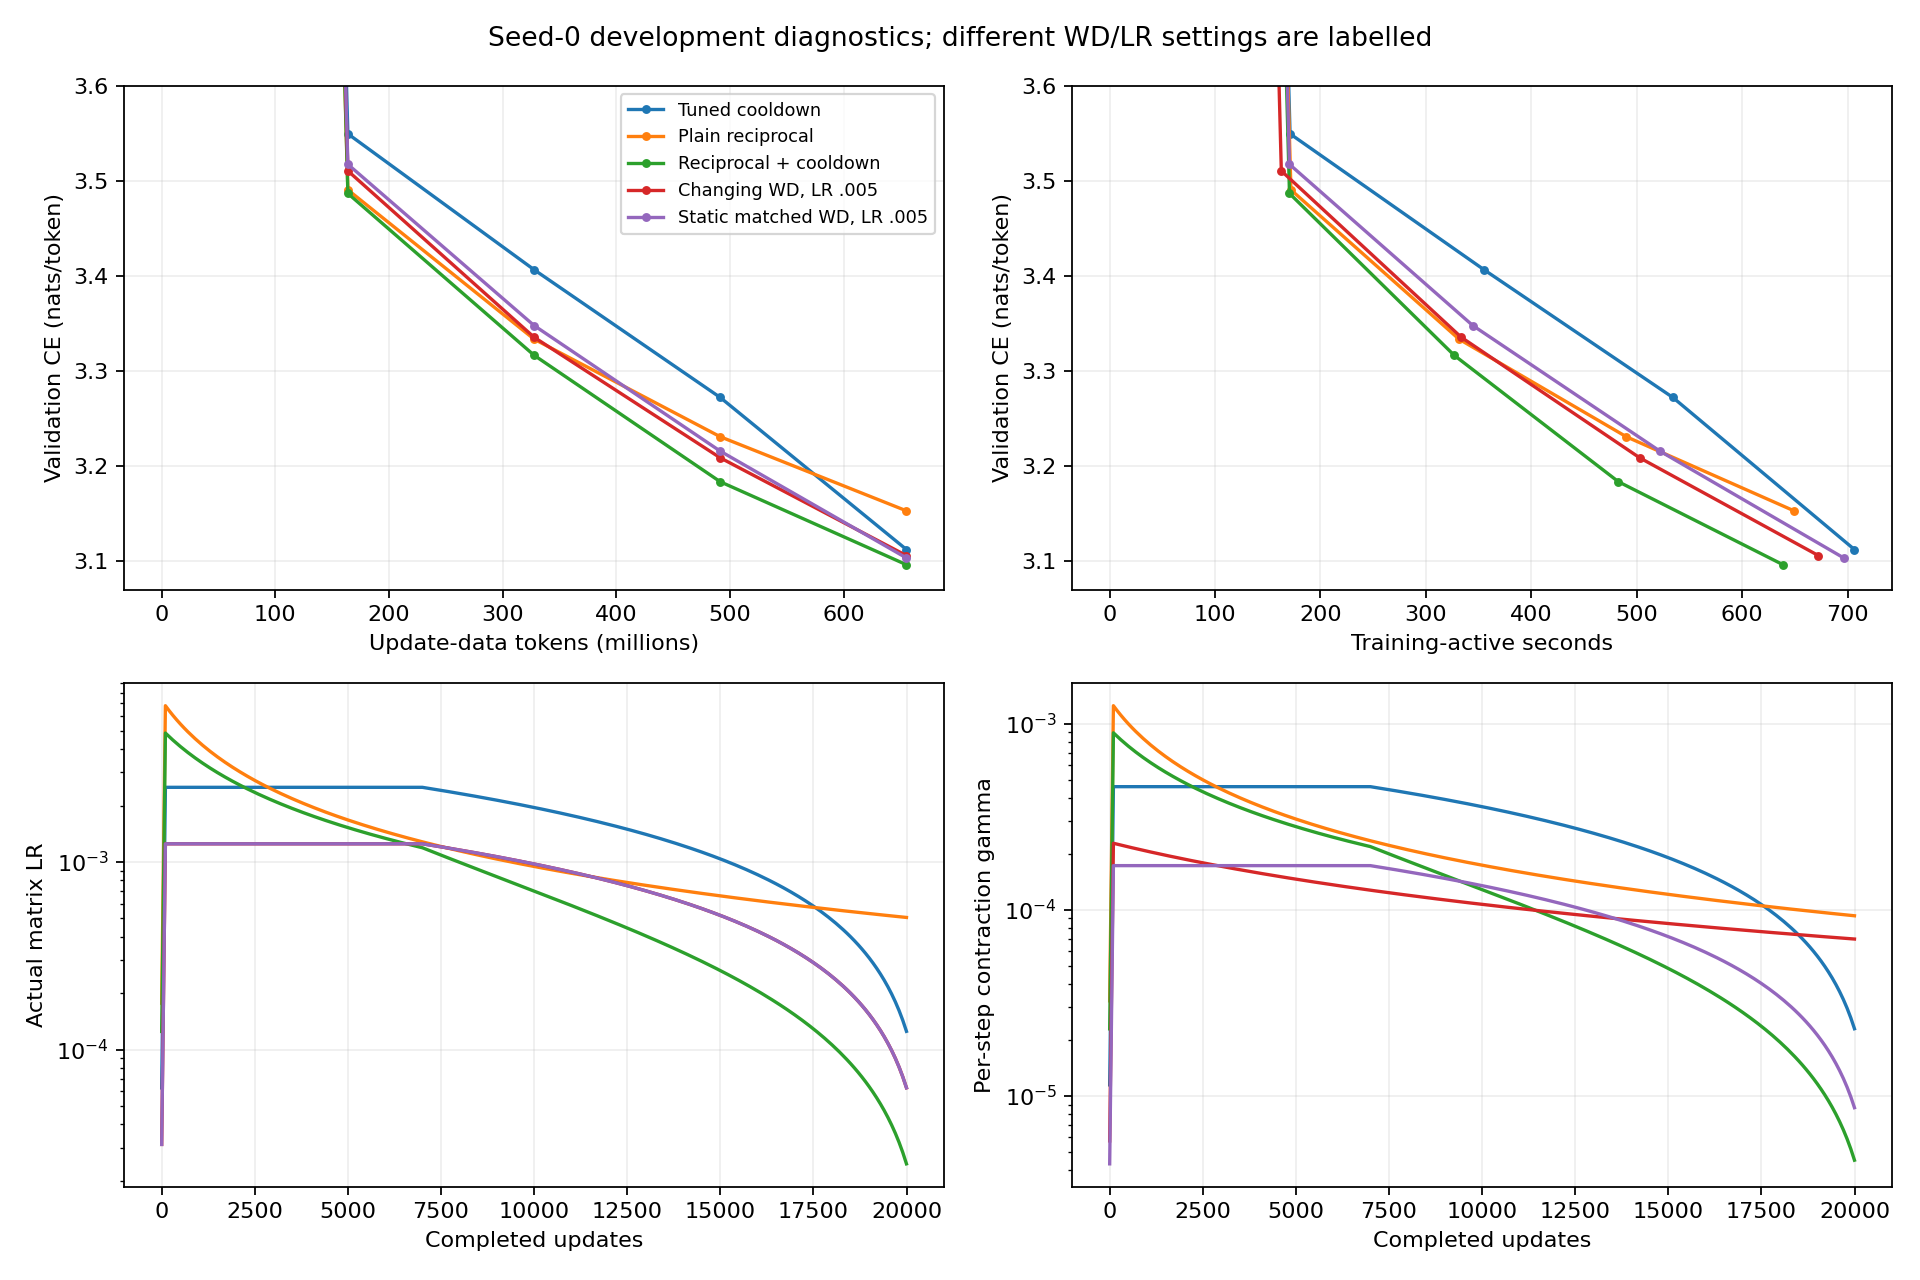
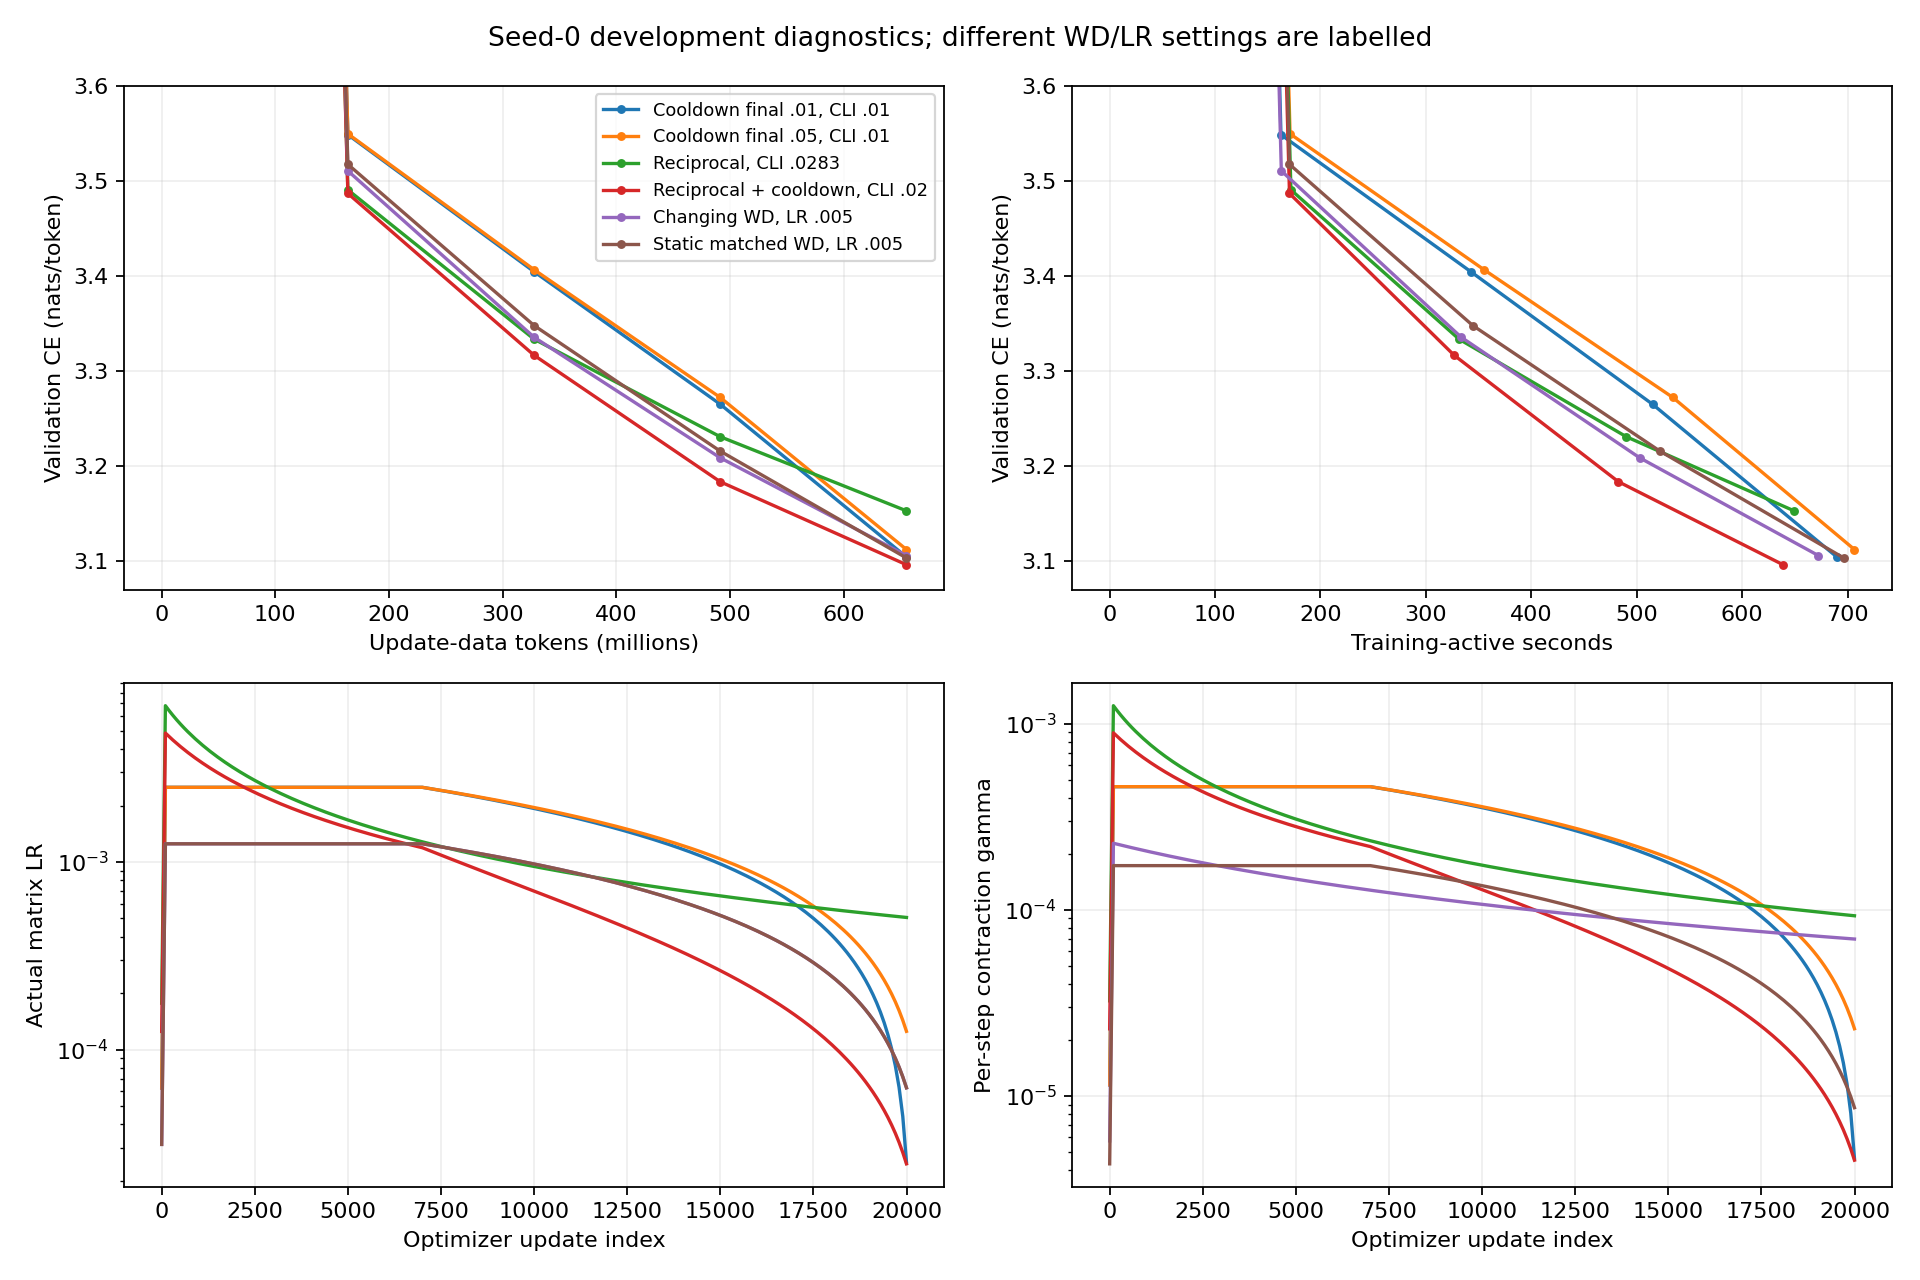
Report negative cap-sign screen and stronger terminal-matched controls

diff --git a/research/unnormalized_muon/cap_sign_report.py b/research/unnormalized_muon/cap_sign_report.py
@@ -1,0 +1,29 @@
+"""Reproduce long cap/sign loss and parameter-weighted gating diagnostics."""
+import pathlib,json,math,collections
+ROOT=pathlib.Path('/mloscratch/homes/mljaggi/nanochat-unnormalized-muon-runs')
+DEST=pathlib.Path('/tmp/muon-window-audit')
+PAIRS=[('um-window-cap-tune-x0p5','um-follow-edge0-control-lr0p005'),('um-window-cap-tune-x1','um-follow-first-tune-control-lr0p01'),('um-window-cap-tune-x2','um-follow-first-tune-control-lr0p02')]
+rows=[]
+for a,b in PAIRS:
+ s=json.loads((ROOT/a/'summary.json').read_text());r=json.loads((ROOT/b/'summary.json').read_text())
+ m=json.loads((ROOT/a/'metrics.jsonl').open().readline());other=json.loads((ROOT/b/'metrics.jsonl').open().readline())
+ assert m['initial_parameter_hash']==other['initial_parameter_hash']
+ assert s['validation']['validation_hash']==r['validation']['validation_hash']
+ rows.append(dict(run=a,reference=b,lr=s['config']['matrix_lr'],ce=s['validation']['loss'],reference_ce=r['validation']['loss'],delta=s['validation']['loss']-r['validation']['loss'],active_ratio=s['training_active_seconds']/r['training_active_seconds'],skipped=s['cap_sign_statistics']['skipped'],total=s['cap_sign_statistics']['total']))
+p=ROOT/'um-window-cap-tune-x1/metrics.jsonl';counts=collections.Counter();late=collections.Counter();updates=0
+with p.open() as f:
+ for line in f:
+  if line.startswith('{"event": "manifest"'):
+   m=json.loads(line);groups=[x for x in m['optimizer_groups'] if x['kind']=='muon']
+  elif line.startswith('{"event": "update"'):
+   x=json.loads(line);updates+=1
+   for group,mask in zip(groups,x['cap_sign_gates']):
+    for n,on in zip(group['names'],mask):
+     if not on:counts[n]+=1;late[n]+=int(x['step']>=1000)
+numel={n:math.prod(shape) for g in groups for n,shape in zip(g['names'],g['shapes'])};params=sum(numel.values())
+detail=dict(matrix_parameters=params,updates=updates,skipped=dict(counts),skipped_after1000=dict(late),weighted_skipped_fraction=sum(numel[n]*c for n,c in counts.items())/(updates*params),late_weighted_skipped_fraction=sum(numel[n]*c for n,c in late.items())/((updates-1000)*params))
+assert sum(counts.values())==rows[1]['skipped']
+text=['# Cheap complete-gap sign gate: long screen','', 'Three full20k-update seed0 runs, same52 native Muon matrices, ordinary fixed lambda=.1837498798375862, clean native direction and auxiliary recipe. Initial parameter and validation-token hashes match each corresponding control. Actual eta=CLI*.25; both controls and sign gate use original terminal fraction.05. Best LR is interior to this tested grid. No extra model forward/backward evaluations.','', '| Peak CLI LR | Native CE | Cap/sign CE | Delta | Observed active-time ratio | Skipped matrix updates |','|---|---:|---:|---:|---:|---:|']
+for x in rows:text.append(f'| {x["lr"]:.6g} | {x["reference_ce"]:.6f} | {x["ce"]:.6f} | {x["delta"]:+.6f} | {x["active_ratio"]:.3f} | {x["skipped"]}/{x["total"]} |')
+text+=['','Best cap/sign CE3.114210 is worse than matching native3.112087; refined native terminal-factor control is stronger still at3.104185. This seed0 screen does not support promoting cap/sign to a large confirmation. Active ratios are observed across different scheduled runs/hardware placements, not independently matched equal-time endpoints.','', f'At central LR, {sum(counts.values())} block decisions skip ({sum(counts.values())/(52*updates):.6%}), but parameter-weighted skipped fraction is only{detail["weighted_skipped_fraction"]:.6%}. Four tiny48-parameter `attn.ve_gate.weight` matrices account for{sum(c for n,c in counts.items() if "ve_gate" in n)/sum(counts.values()):.2%} of skips. All{sum(late.values())} skips after optimizer index1000 occur in these tiny gates; their parameter-weighted fraction over remaining updates is{detail["late_weighted_skipped_fraction"]:.8%}. Most large-matrix steps therefore remain ordinary scheduled Muon.','', 'This supports the prior cap/sign saturation diagnosis while finding no useful development-validation gain for the cheap replacement. The old Armijo method matched cap/sign rates after startup, but counterfactual trajectories and rounding need not match. Retain the negative result; do not add a fresh-fit controller grid after its failed gate.','', 'Reproduce with `python research/unnormalized_muon/cap_sign_report.py`; outputs go to `/tmp/muon-window-audit`. All raw logs remain outside Git.']
+DEST.mkdir(exist_ok=True);(DEST/'CAP_SIGN_RESULTS.md').write_text('\n'.join(text)+'\n');(DEST/'cap_sign_audit.json').write_text(json.dumps(dict(rows=rows,detail=detail),indent=2)+'\n');print('\n'.join(text))

diff --git a/research/unnormalized_muon/window_diagnostics.py b/research/unnormalized_muon/window_diagnostics.py
@@ -7,7 +7,7 @@ sys.path.insert(0,'/mloscratch/homes/mljaggi/nanochat-unnormalized-muon')
 from research.unnormalized_muon.events import read_events
 R=pathlib.Path('/mloscratch/homes/mljaggi/nanochat-unnormalized-muon-runs')
 O=pathlib.Path('/tmp/muon-window-audit');O.mkdir(exist_ok=True)
-names={'um-follow-first-tune-control-lr0p01':'Tuned cooldown', 'um-follow-mid-reciprocal-high':'Plain reciprocal', 'um-window-schedule-lr0p02-f0p05':'Reciprocal + cooldown', 'um-window-first-wd-mixing':'Changing WD, LR .005', 'um-window-first-wd-static-product':'Static matched WD, LR .005'}
+names={'um-window-joint-terminal-lr0p01-f0p01':'Cooldown final .01, CLI .01', 'um-follow-first-tune-control-lr0p01':'Cooldown final .05, CLI .01', 'um-follow-mid-reciprocal-high':'Reciprocal, CLI .0283', 'um-window-schedule-lr0p02-f0p05':'Reciprocal + cooldown, CLI .02', 'um-window-first-wd-mixing':'Changing WD, LR .005', 'um-window-first-wd-static-product':'Static matched WD, LR .005'}
 fig,axs=plt.subplots(2,2,figsize=(12,8));records=[]
 for n,label in names.items():
  p=R/n
@@ -24,7 +24,7 @@ for n,label in names.items():
  axs[1,0].plot([x['step'] for x in sample],[x['group_lrs'][a] for x in sample],label=label)
  axs[1,1].plot([x['step'] for x in sample],[x['group_lrs'][a]*x['group_weight_decays'][a] for x in sample],label=label)
  records.append(dict(run=n,label=label,ce=s['validation']['loss'],final_eta=u[-1]['group_lrs'][a],final_wd=u[-1]['group_weight_decays'][a],log_contraction=logp,active_seconds=s['training_active_seconds'],tokens=s['fresh_tokens']))
-for ax,x,y in zip(axs.flat,['Update-data tokens (millions)','Training-active seconds','Completed updates','Completed updates'],['Validation CE (nats/token)','Validation CE (nats/token)','Actual matrix LR','Per-step contraction gamma']):
+for ax,x,y in zip(axs.flat,['Update-data tokens (millions)','Training-active seconds','Optimizer update index','Optimizer update index'],['Validation CE (nats/token)','Validation CE (nats/token)','Actual matrix LR','Per-step contraction gamma']):
  ax.set_xlabel(x);ax.set_ylabel(y);ax.grid(alpha=.2)
 axs[0,0].set_ylim(3.07,3.6);axs[0,1].set_ylim(3.07,3.6);axs[1,0].set_yscale('log');axs[1,1].set_yscale('log');axs[0,0].legend(fontsize=8)
 fig.suptitle('Seed-0 development diagnostics; different WD/LR settings are labelled')

diff --git a/research/unnormalized_muon/WINDOW_SCHEDULE_AUDIT.md b/research/unnormalized_muon/WINDOW_SCHEDULE_AUDIT.md
@@ -1,17 +1,20 @@
 # Independent recorded-schedule audit
 
-Read-only audit of all20,000 recorded update coefficients for each row; no new model evaluations. Recomputed sum log(1-eta*lambda) agrees with each run summary within1e-9. These are development seed0 results, not paired confirmation. Product is the initial-iterate coefficient, not the final weight-norm ratio.
+Read-only audit of all20,000 recorded update coefficients per row; no new model evaluations. Recomputed sum log(1-eta*lambda) matches each summary within1e-9. These are seed0 development results. Product is the initial-iterate coefficient, not the final weight-norm ratio.
 
 | Method | Val CE | Final actual LR | Final lambda | Log contraction | Active seconds |
 |---|---:|---:|---:|---:|---:|
-| Tuned cooldown | 3.112087 | 0.00012518269 | 0.1837499 | -6.343333 | 706.571 |
-| Plain reciprocal | 3.152773 | 0.00050628982 | 0.1837499 | -5.301866 | 649.252 |
-| Reciprocal + cooldown | 3.096101 | 2.4621277e-05 | 0.1837499 | -3.940495 | 638.844 |
+| Cooldown final .01, CLI .01 | 3.104185 | 2.5190385e-05 | 0.1837499 | -6.223885 | 689.960 |
+| Cooldown final .05, CLI .01 | 3.112087 | 0.00012518269 | 0.1837499 | -6.343333 | 706.571 |
+| Reciprocal, CLI .0283 | 3.152773 | 0.00050628982 | 0.1837499 | -5.301866 | 649.252 |
+| Reciprocal + cooldown, CLI .02 | 3.096101 | 2.4621277e-05 | 0.1837499 | -3.940495 | 638.844 |
 | Changing WD, LR .005 | 3.105714 | 6.2591346e-05 | 1.114657 | -2.388109 | 672.405 |
 | Static matched WD, LR .005 | 3.103214 | 6.2591346e-05 | 0.1383712 | -2.388109 | 696.460 |
 
-Changing WD and its static counterpart match FINAL log contraction exactly, but have different histories; the static counterpart currently performs better. Reciprocal plus cooldown changes the terminal step AND cumulative contraction relative to either plain reciprocal or the tuned cooldown control, so its preliminary gain cannot be attributed to FW geometry alone. Native auxiliary rules are identical.
+The refined ordinary control and cooled reciprocal now have near-matched final actual LRs (~2.5e-5), but different cumulative contraction. The reciprocal/cooldown seed0 gain versus this stronger original-lambda control is.008084CE. A static-WD control matching the cooled run final log contraction is prespecified before final confirmation, alongside static-WD/terminal-factor refinement. Matching the final product does not match histories.
+
+Changing WD and its first static counterpart match FINAL log contraction exactly; the static counterpart currently performs better. Native auxiliary rules are identical. Different scheduled GPU placements confound small raw time differences; token-clock curves are not independently matched equal-time endpoints.
 
 ![Validation, actual LR and contraction histories](window_schedule_diagnostics.png)
 
-Reproduce with `python research/unnormalized_muon/window_diagnostics.py`; output goes to `/tmp/muon-window-audit`, reading persistent logs. Token-matched curves are not independently matched equal-time endpoints.
+Reproduce: `python research/unnormalized_muon/window_diagnostics.py`; output `/tmp/muon-window-audit`, reading persistent logs.

diff --git a/research/unnormalized_muon/CAP_SIGN_RESULTS.md b/research/unnormalized_muon/CAP_SIGN_RESULTS.md
@@ -1,0 +1,17 @@
+# Cheap complete-gap sign gate: long screen
+
+Three full20k-update seed0 runs, same52 native Muon matrices, ordinary fixed lambda=.1837498798375862, clean native direction and auxiliary recipe. Initial parameter and validation-token hashes match each corresponding control. Actual eta=CLI*.25; both controls and sign gate use original terminal fraction.05. Best LR is interior to this tested grid. No extra model forward/backward evaluations.
+
+| Peak CLI LR | Native CE | Cap/sign CE | Delta | Observed active-time ratio | Skipped matrix updates |
+|---|---:|---:|---:|---:|---:|
+| 0.005 | 3.119279 | 3.121832 | +0.002553 | 1.028 | 942/1040000 |
+| 0.01 | 3.112087 | 3.114210 | +0.002123 | 1.026 | 904/1040000 |
+| 0.02 | 3.142251 | 3.142147 | -0.000104 | 1.015 | 646/1040000 |
+
+Best cap/sign CE3.114210 is worse than matching native3.112087; refined native terminal-factor control is stronger still at3.104185. This seed0 screen does not support promoting cap/sign to a large confirmation. Active ratios are observed across different scheduled runs/hardware placements, not independently matched equal-time endpoints.
+
+At central LR, 904 block decisions skip (0.086923%), but parameter-weighted skipped fraction is only0.005945%. Four tiny48-parameter `attn.ve_gate.weight` matrices account for90.04% of skips. All695 skips after optimizer index1000 occur in these tiny gates; their parameter-weighted fraction over remaining updates is0.00000698%. Most large-matrix steps therefore remain ordinary scheduled Muon.
+
+This supports the prior cap/sign saturation diagnosis while finding no useful development-validation gain for the cheap replacement. The old Armijo method matched cap/sign rates after startup, but counterfactual trajectories and rounding need not match. Retain the negative result; do not add a fresh-fit controller grid after its failed gate.
+
+Reproduce with `python research/unnormalized_muon/cap_sign_report.py`; outputs go to `/tmp/muon-window-audit`. All raw logs remain outside Git.
